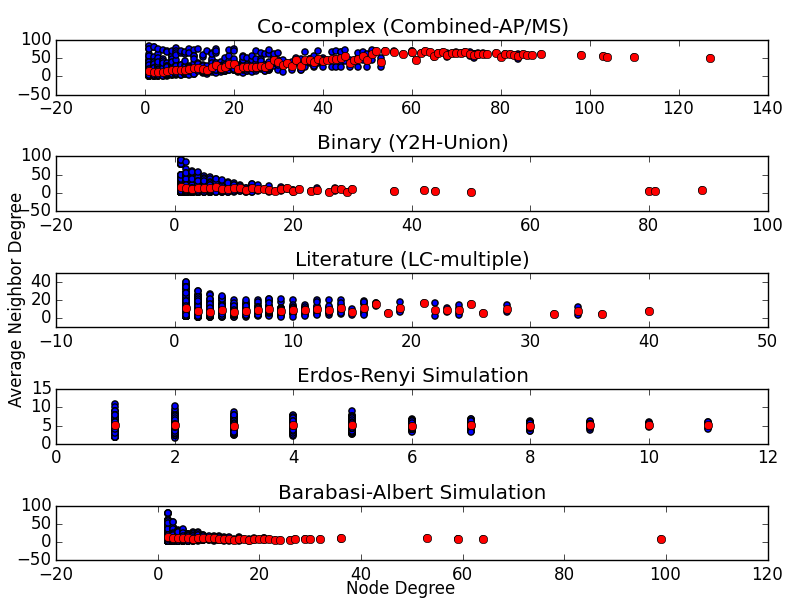
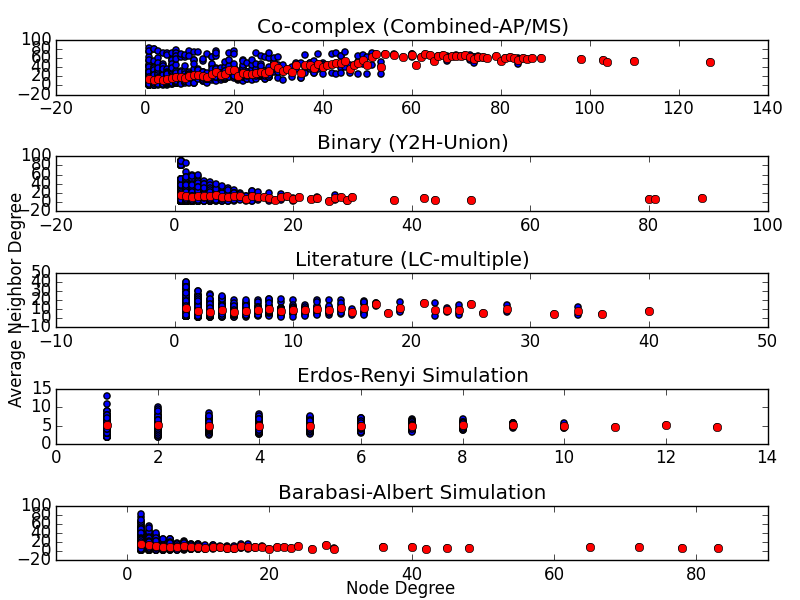
more tweaks

diff --git a/hw2.py b/hw2.py
@@ -424,7 +424,7 @@ def plot_AND_dataset(prefix, data_ls, avg_ls, title_ls=None):
         row.plot(avg_x,avg_y,'or')
         if title_ls != None:
             row.set_title(title_ls[i])
-        row.locator_params(nbins=5,axis='y')
+        row.locator_params(nbins=6,axis='y')
             
         i += 1
     
